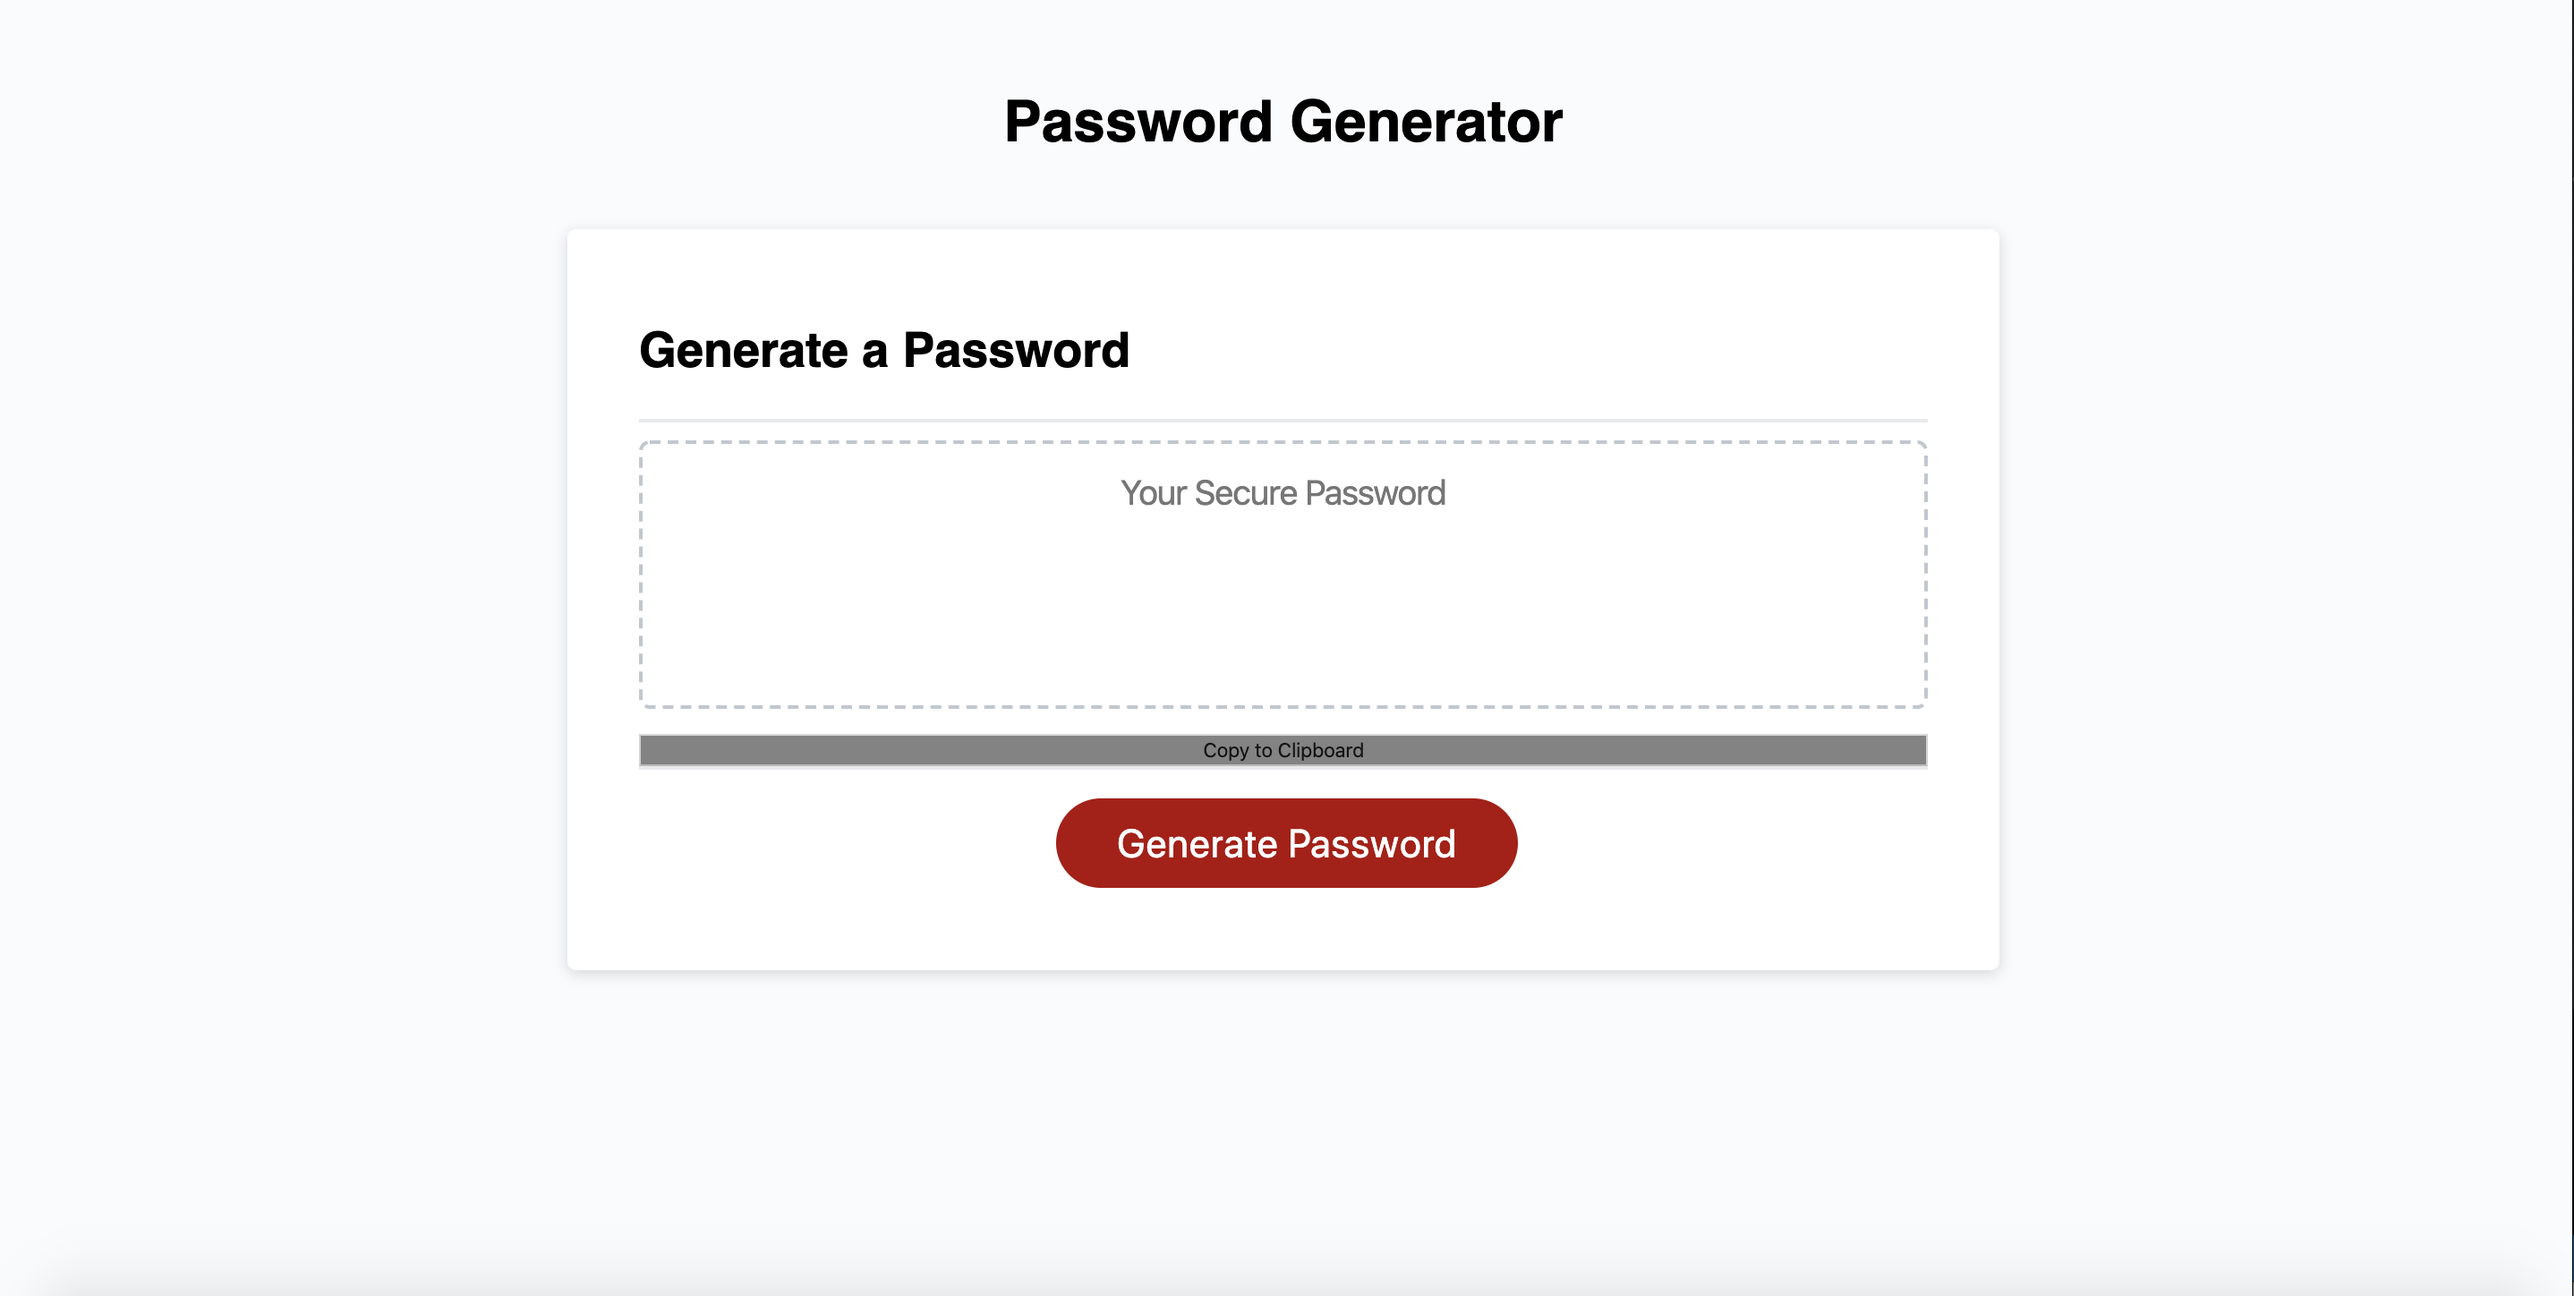
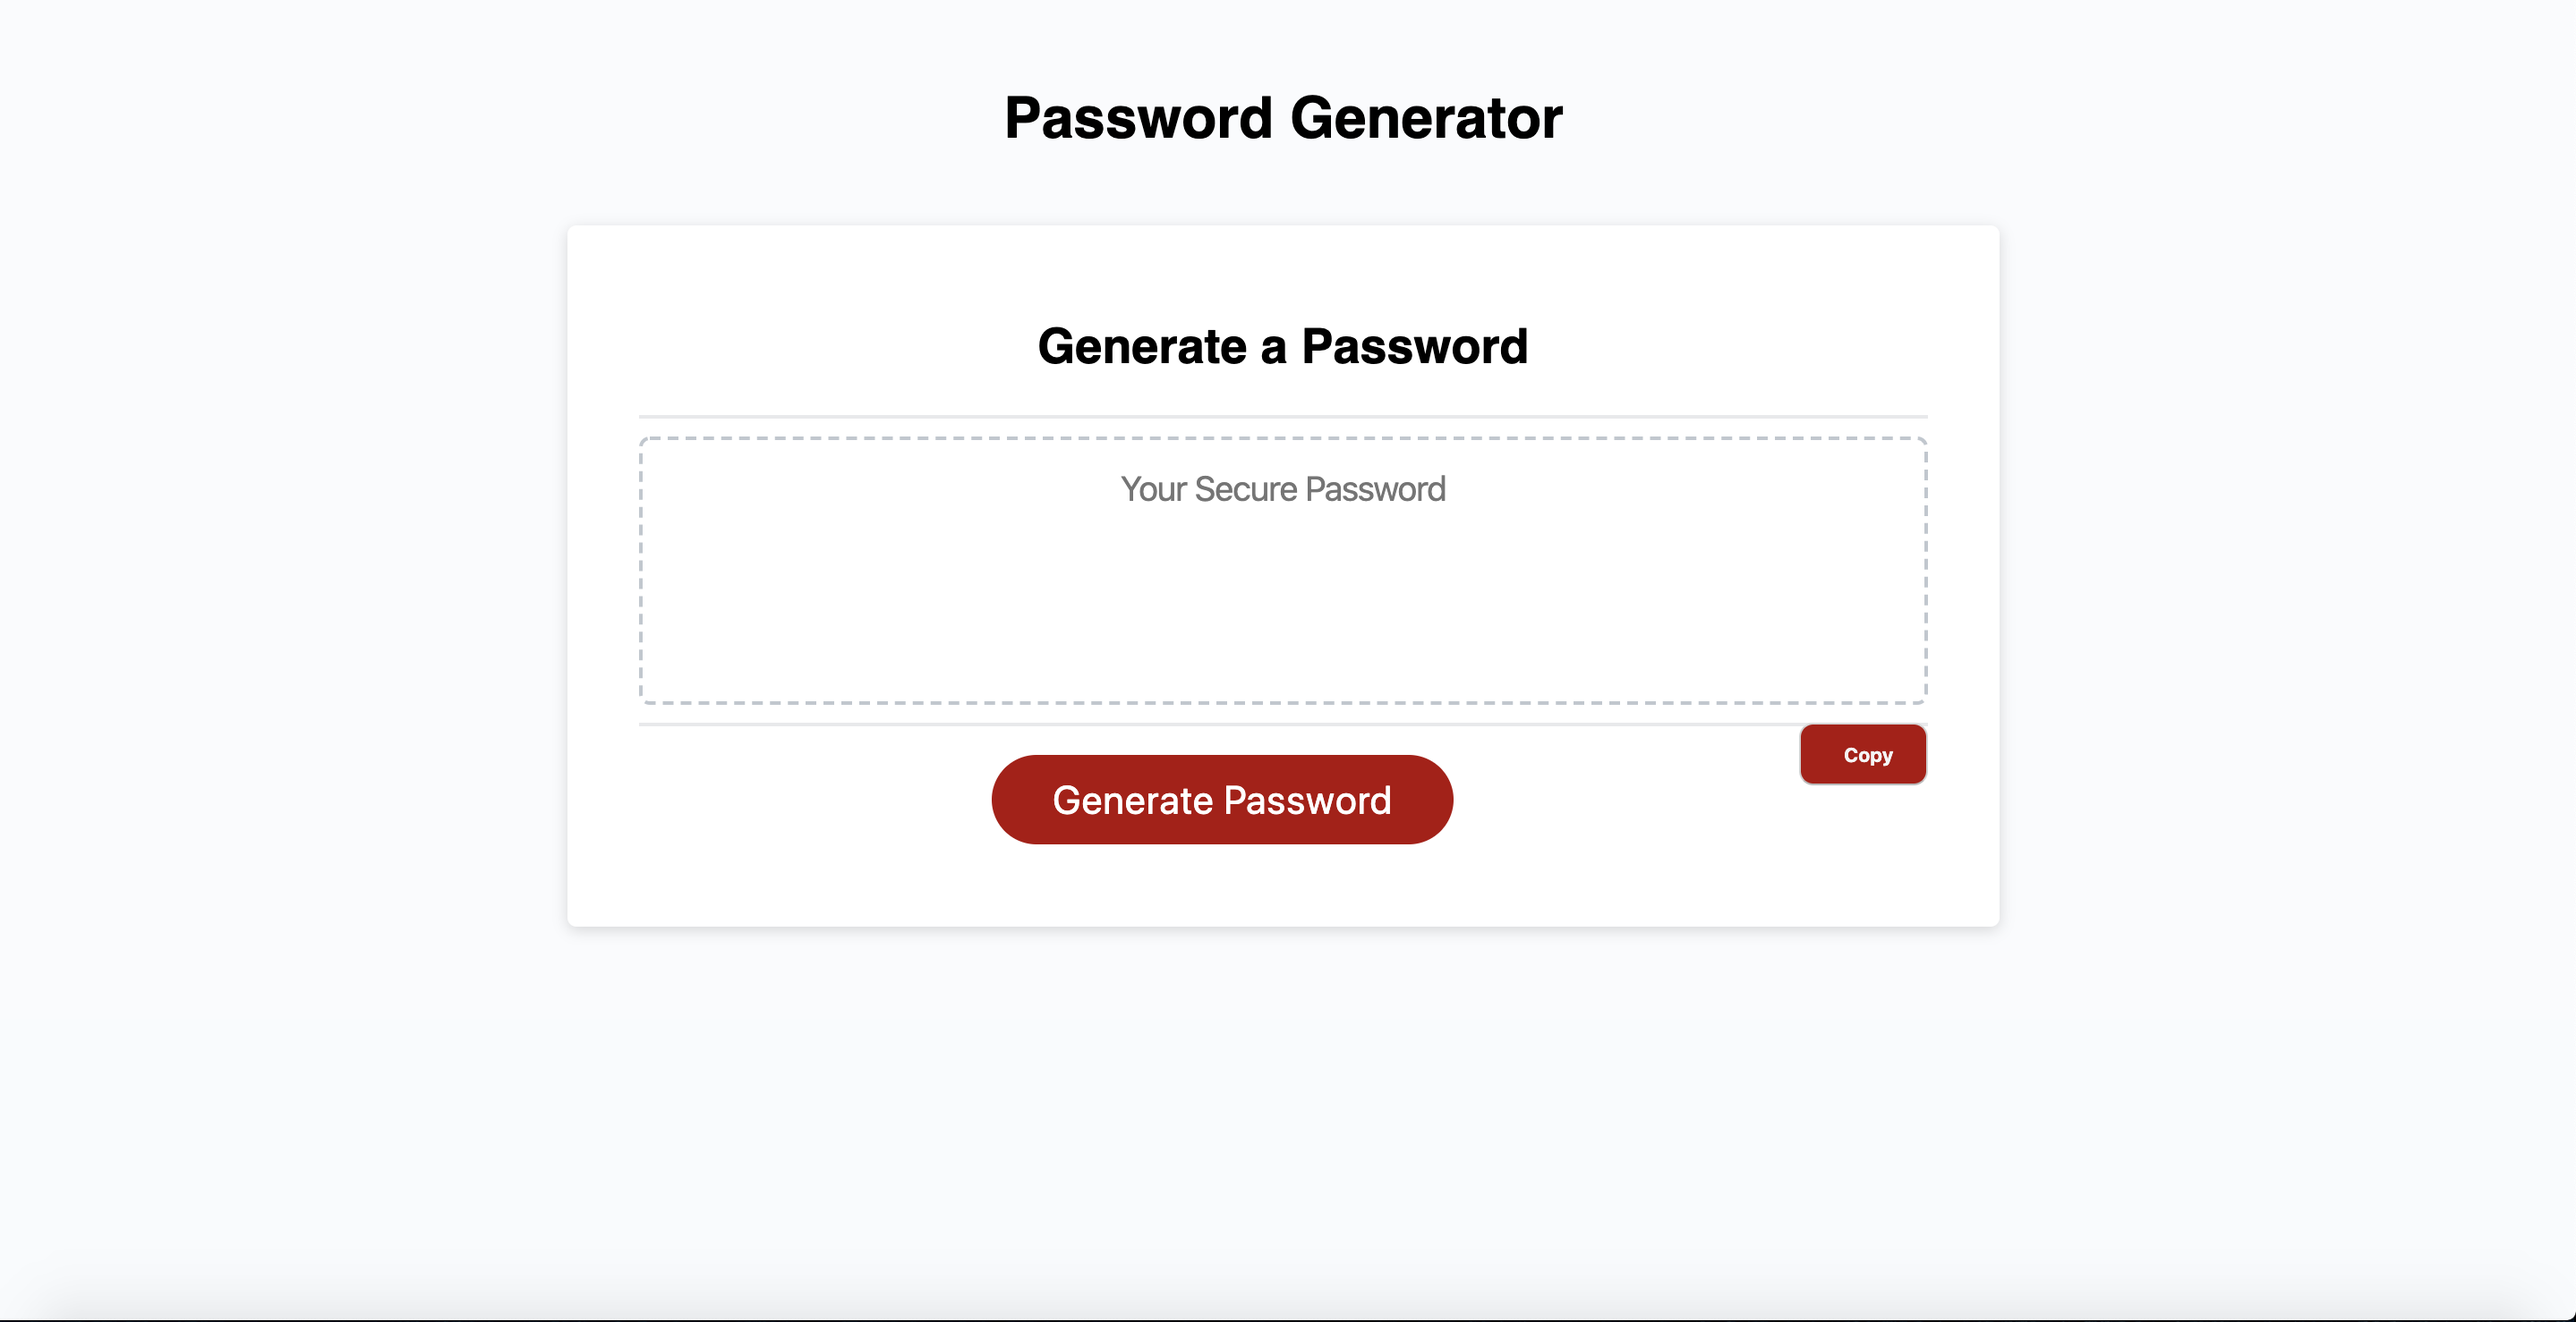
Updating javascript for Random password generator, as well as adding new picture to README.md

diff --git a/script.js b/script.js
@@ -1,35 +1,25 @@
-// Assignment Code
-// var generateBtn = document.querySelector("#generate");
+// Setting user variable
 
-// Write password to the #password input
-// function writePassword() {
-//   var password = generatePassword();
-//   var passwordText = document.querySelector("#password");
-
-//   passwordText.value = password;
-
-// }
-
-
-// let includeUppercase = false;
-// let includeLowercase = false;
-// let includeSpecial = false;
-// let includeNubmbers = false;
 let charCount;
 
-var upperCaseArray = ["A", "B", "C", "D", "E", "F", "G", "H", "I", "J", "K", "L", "M", "N", "O", "P", "Q", "R", "S", "T", "U", "V", "W", "X", "Y", "Z"]
-var lowerCaseArray = ["a", "b", "c", "d", "e", "f", "g", "h", "i", "j", "k", "l", "m", "n", "o", "p", "q", "r", "s", "t", "u", "v", "w", "x", "y", "z"]
-var numberArray = [1, 2, 3, 4, 5, 6, 7, 8, 9, 0]
-var specialArray = ["!", "'", "@", "$", "&", "%", "+", ",", "-", "/", ";", ":", "<", ">", "=", "^", "*"]
-var choices = [""];
-var password = "";
+//Setting my generatePassword function to starts when button with id="generate" is clicked
 
+document.getElementById("generate").onclick = generatePassword;
 
-function userQ() {
+// Function called "Generate Password"
+
+function generatePassword() {
+
+  var choices = [];
+  var password = "";
+
+  //prompt for user to select length of password they desire, while limiting selection to between 8 and 128
 
   charCount = prompt("How many characters do you want? 8-128")
   if (charCount < 8 || charCount > 128) {
     alert("invalid length, please retry")
+
+    //If user enters a number in the acceptable range they are asked to confirm which character types the want to include in their password
 
   } else {
     includeUppercase = confirm("Do you want upper case letters?");
@@ -38,21 +28,18 @@ function userQ() {
     includeLowercase = confirm("Do you want lower case letters")
 
 
-    includeSpecial = confirm("do you want special charcaters?")
+    includeSpecial = confirm("do you want special characters?")
 
-    includeNubmbers = confirm("Do wou want numbers charcaters")
-
-    console.log("includeUppercase is " + includeUppercase)
-    console.log("includeLowercase is " + includeLowercase)
-    console.log("includeSpecial is " + includeSpecial)
-    console.log("includeNubmbers is " + includeNubmbers)
-    console.log(charCount)
-
+    includeNumbers = confirm("Do wou want numbers characters")
   }
 
-  if (includeUppercase == false && includeLowercase == false && includeNubmbers == false && includeSpecial == false) {
+  //if statement to alert the user if they have not selected any variables
+
+  if (includeUppercase == false && includeLowercase == false && includeNumbers == false && includeSpecial == false) {
     alert("You must select some variables")
   }
+  //Else statement will push all selected categories to the choices array
+
   else {
     if (includeUppercase) {
       choices.push("A", "B", "C", "D", "E", "F", "G", "H", "I", "J", "K", "L", "M", "N", "O", "P", "Q", "R", "S", "T", "U", "V", "W", "X", "Y", "Z")
@@ -62,7 +49,7 @@ function userQ() {
       choices.push("a", "b", "c", "d", "e", "f", "g", "h", "i", "j", "k", "l", "m", "n", "o", "p", "q", "r", "s", "t", "u", "v", "w", "x", "y", "z")
 
     }
-    if (includeNubmbers) {
+    if (includeNumbers) {
       choices.push(1, 2, 3, 4, 5, 6, 7, 8, 9, 0)
 
     }
@@ -70,46 +57,29 @@ function userQ() {
       choices.push("!", "'", "@", "$", "&", "%", "+", ",", "-", "/", ";", ":", "<", ">", "=", "^", "*")
 
     }
+
     console.log(choices)
-    console.log(charCount)
+
+    //If statement that says if charCount is true (has a value), run a for loop through the choices array, pull out 1 random character each time and store it in the password variable, for as long as the i < charCount value   
 
     if (charCount) {
       for (var i = 0; i < charCount; i++) {
-        password += choices[Math.floor(Math.random() * Math.floor(choices.length))]
+        password += choices[Math.floor(Math.random() * choices.length)]
       }
     }
-    console.log(password)
   }
+  //Inserting the password into the text box with id = "password" 
+
   document.getElementById("password").value = password
-  console.log(password)
 }
 
-document.getElementById("generate").onclick = userQ;
+//Copy button function
 
-// how to reset the variables when click generate 
-
-
-
-
-// if (charCount) {
-//   for (var i = 0; i <= charCount; i++) {
-//     password = password + choices.charAt(Math.floor(Math.random() * Math.floor(choices.length -1)))
-//   }
-//  console.log(test)
-//     console.log(charCount)
-//     console.log(password)
-// }
-// test = lowerCaseArray[Math.floor(Math.random() * lowerCaseArray.length)]
-// let randLowerCase =lowerCaseArray[ Math.floor(Math.random()*lowerCaseArray.length)]
-// console.log (randLowerCase)
-// let randNumb =numberArray[ Math.floor(Math.random()*numberArray.length)]
-// let randSpecial =specialArray[ Math.floor(Math.random()*specialArray.length)]
-
-function copyPassword(){
+function copyPassword() {
 
   document.getElementById("password").select();
 
   document.execCommand('Copy')
 
-  alert("password has been coppied")
+  alert("password has been copied")
 }

diff --git a/index.html b/index.html
@@ -23,7 +23,7 @@
             placeholder="Your Secure Password"
             aria-label="Generated Password"
           ></textarea>
-          <button onclick="copyPassword()" id="copyPaste">Copy to Clipboard</button>
+          <button onclick="copyPassword()" id="copyPaste">Copy</button>
         </div>
         <div class="card-footer">
           <button id="generate" class="btn">Generate Password</button>

diff --git a/style.css b/style.css
@@ -1,10 +1,17 @@
 #copyPaste{
-  background-color:#838383;
-  width: 100%;
-
+  background-color:hsl(360, 91%, 36%);
+  width: 10%;
+  color: whitesmoke;
+  font-weight: bold;
+  text-align: center;
+  padding: 10px 24px;
+  border-radius: 8px;
+  float: right;
 }
 
-
+h2{
+  text-align: center;
+}
 
 
 *,
